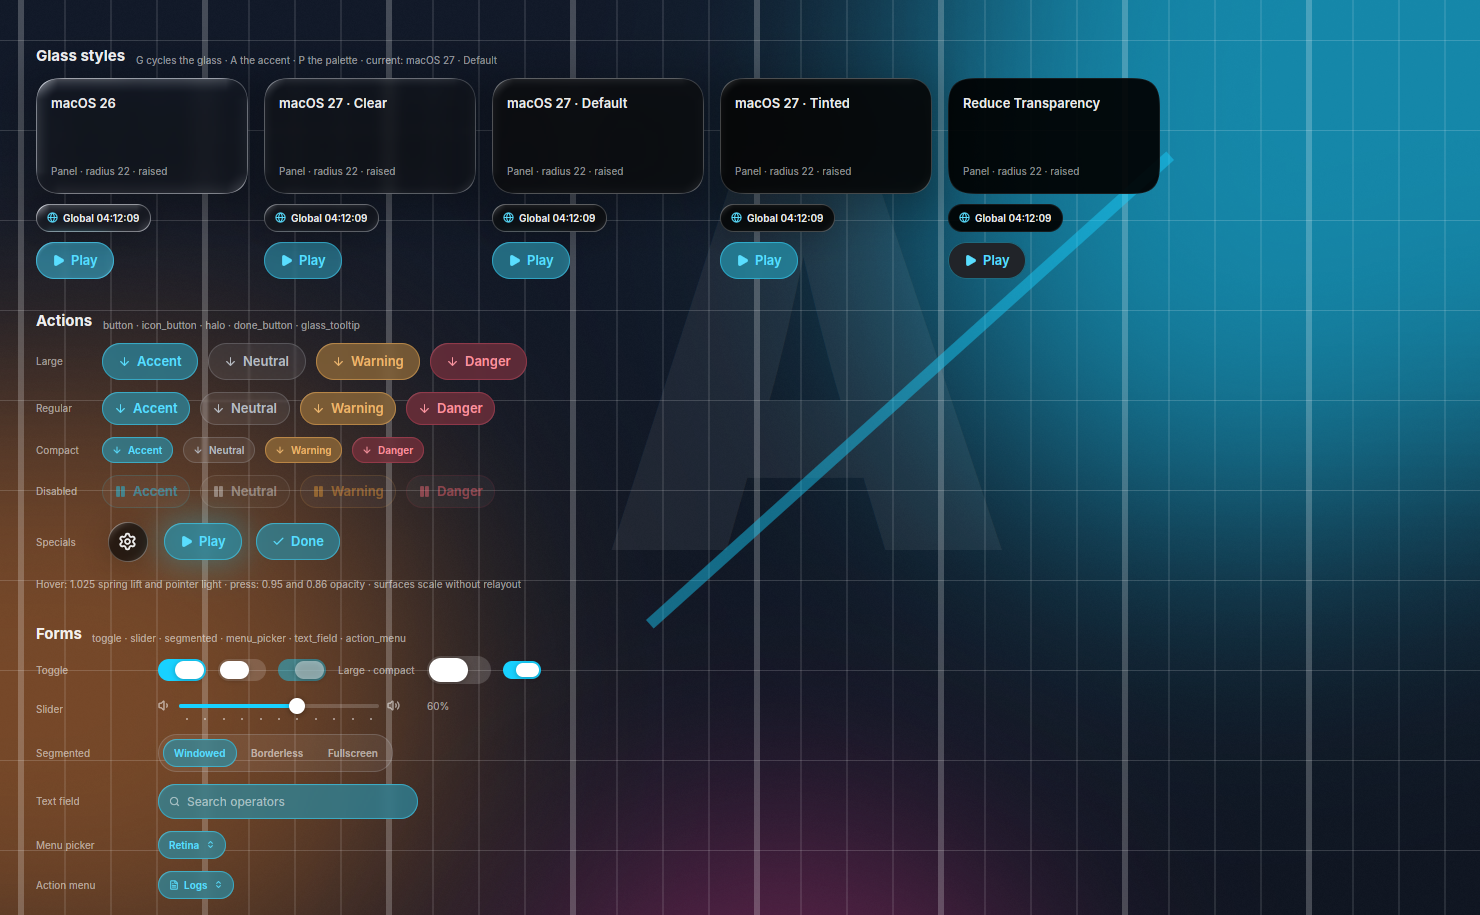
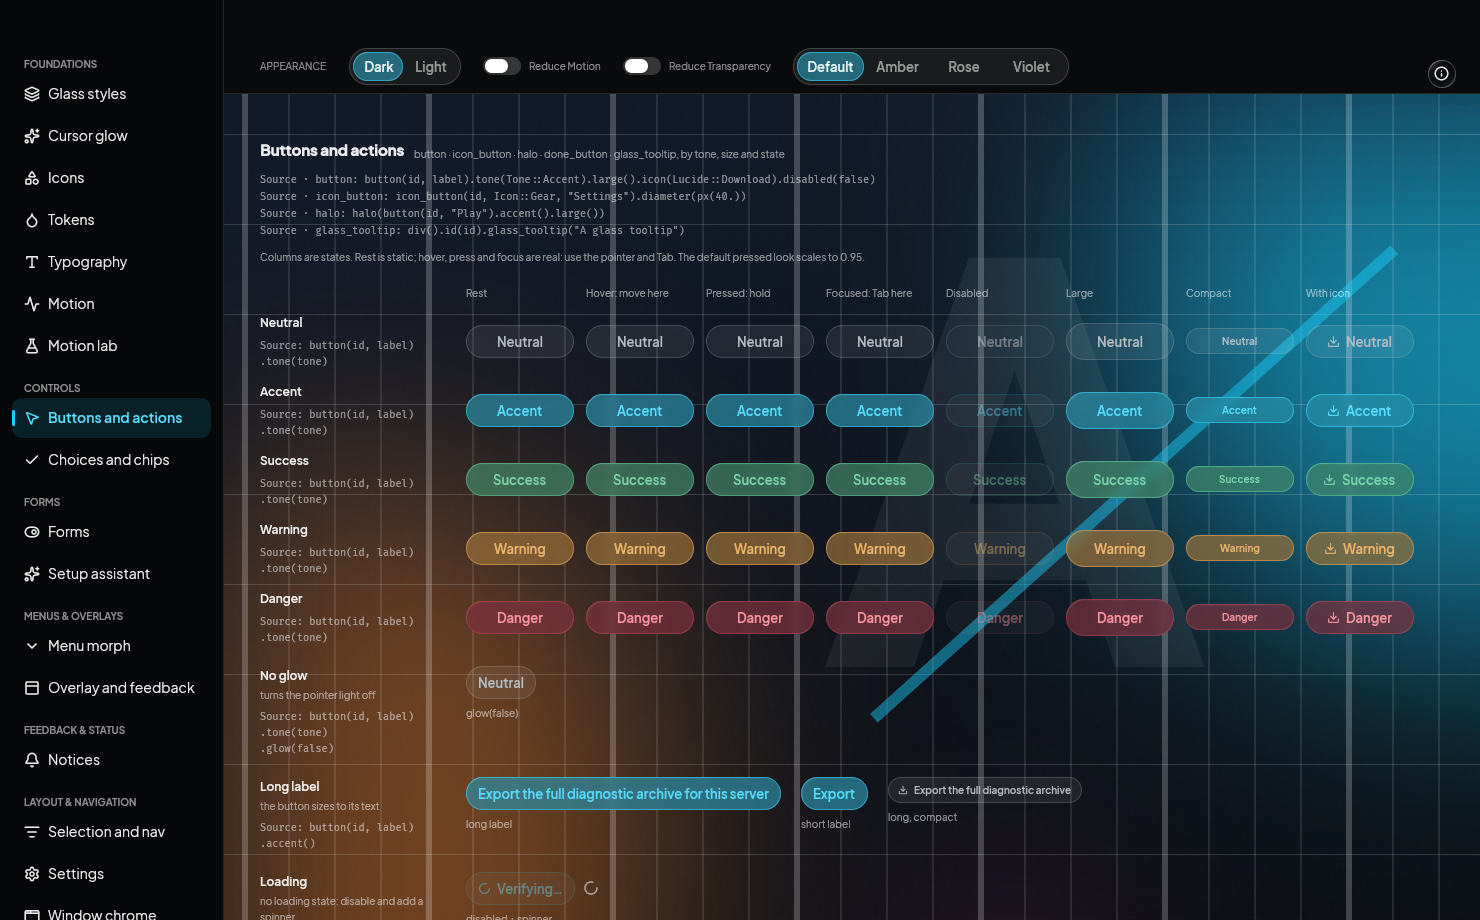
chore: release 0.3.0 with a new preview image

diff --git a/CHANGELOG.md b/CHANGELOG.md
@@ -5,10 +5,20 @@ All notable changes to Calcite are recorded here. The format follows
 
 ## [Unreleased]
 
+## [0.3.0] - 2026-10-15
+
 ### Added
 
-- Release workflow (`.github/workflows/release.yml`), started by hand with a version tag: it builds the developer preview as a standalone Windows executable, creates the tag, and publishes a GitHub release with the changelog section as notes.
+- Release workflow (`.github/workflows/release.yml`), started by hand with a version tag: it builds the developer preview as one standalone file per system (Windows `.exe`, Linux `.AppImage`, and a universal macOS `.dmg` for Apple silicon and Intel), creates the tag, and publishes a GitHub release. `dry_run` builds the files without a tag or release.
 - `calcite-bundle`: the `exe` format copies the Windows executable alone, without an installer, as `<name>_<version>_<arch>.exe`. It needs a Windows host and no `resources`.
+- `calcite-bundle`: the `standalone` format names the host's single file: `exe` on Windows, `dmg` on macOS, `appimage` on Linux.
+
+### Performance
+
+- Windows (Direct3D): backdrop blur and glass run under a scissor around each filter, like Metal and Vulkan. Each glass control used to blur the whole window three times per frame.
+- All backends: a backdrop filter blurs only the part of its bounds its content mask shows, so glass half scrolled out of a list blurs half.
+- All backends: the gaussian blur fetches two neighbouring taps with one bilinear sample, which halves the texture reads of the blur passes for radii up to about 21 px. The result is the same.
+- Neutral flat controls at rest paint a plain fill instead of a one-pixel glass pass; only the pointer light on hover still uses glass.
 
 ### Fixed
 

diff --git a/README.md b/README.md
@@ -10,9 +10,9 @@
 [![Rust 1.97+](https://img.shields.io/badge/Rust-1.97%2B-477acc?style=flat-square&labelColor=23252a)](https://www.rust-lang.org/)
 [![gpui-ce](https://img.shields.io/badge/gpui--ce-patched-477acc?style=flat-square&labelColor=23252a)](patches/)
 [![MPL-2.0 license](https://img.shields.io/badge/license-MPL--2.0-477acc?style=flat-square&labelColor=23252a)](LICENSE)
-[![Version](https://img.shields.io/badge/version-0.2.1-477acc?style=flat-square&labelColor=23252a)](CHANGELOG.md)
+[![Version](https://img.shields.io/badge/version-0.3.0-477acc?style=flat-square&labelColor=23252a)](CHANGELOG.md)
 
-<img src="assets/github/preview.png" width="1480" alt="The Calcite Developer Preview: glass styles, actions, forms, settings panels, and HUD surfaces" />
+<img src="assets/github/preview.png" width="1480" alt="The Calcite Developer Preview: buttons in every tone and state, with the section sidebar and the appearance toolbar" />
 
 **[Library guide](crates/calcite/README.md)** · [Changelog](CHANGELOG.md) · [Developer Preview](crates/calcite-showcase/src/bin/preview) · [Arknights Client](https://github.com/LuMiSxh/Arknights-MacOS-Client)
 
